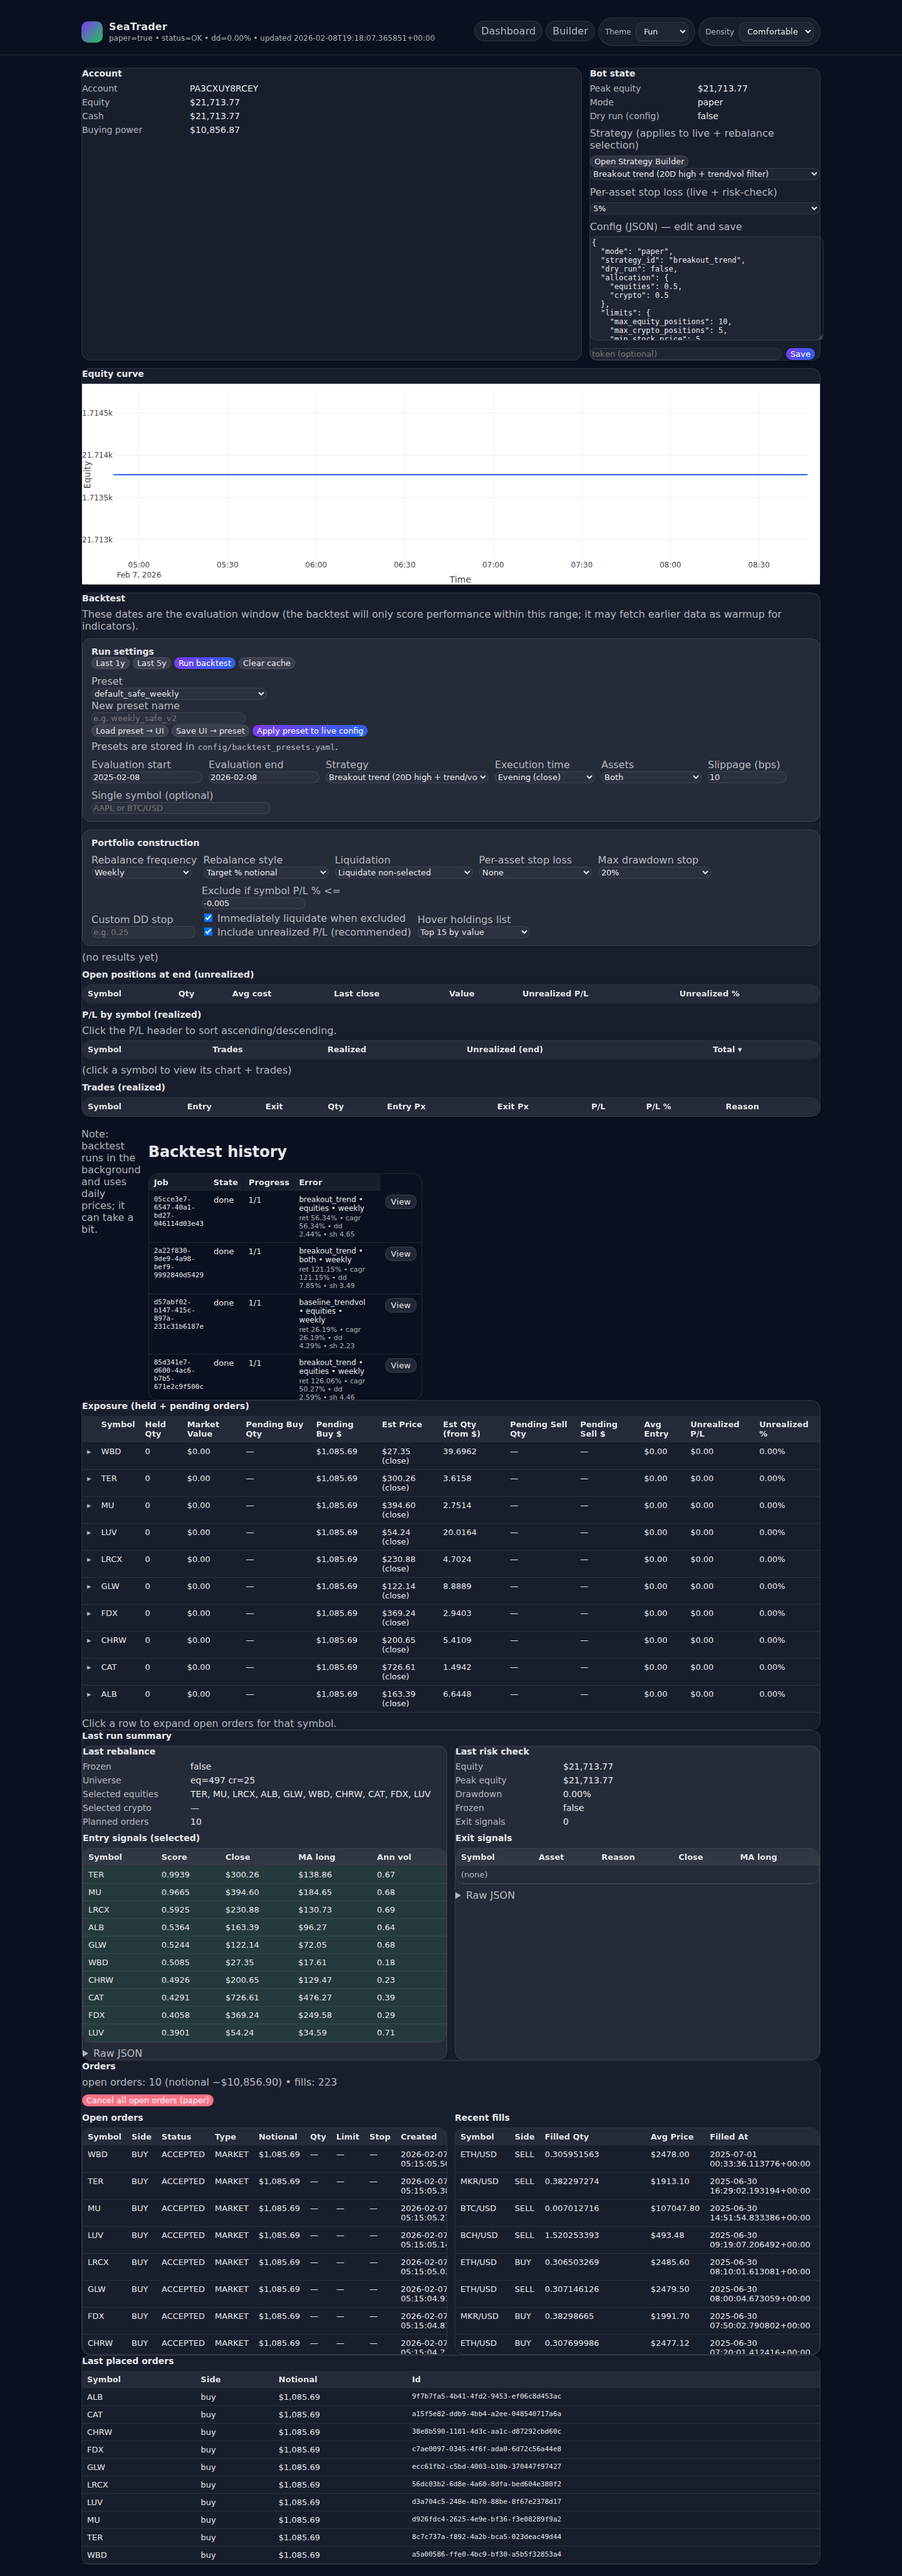
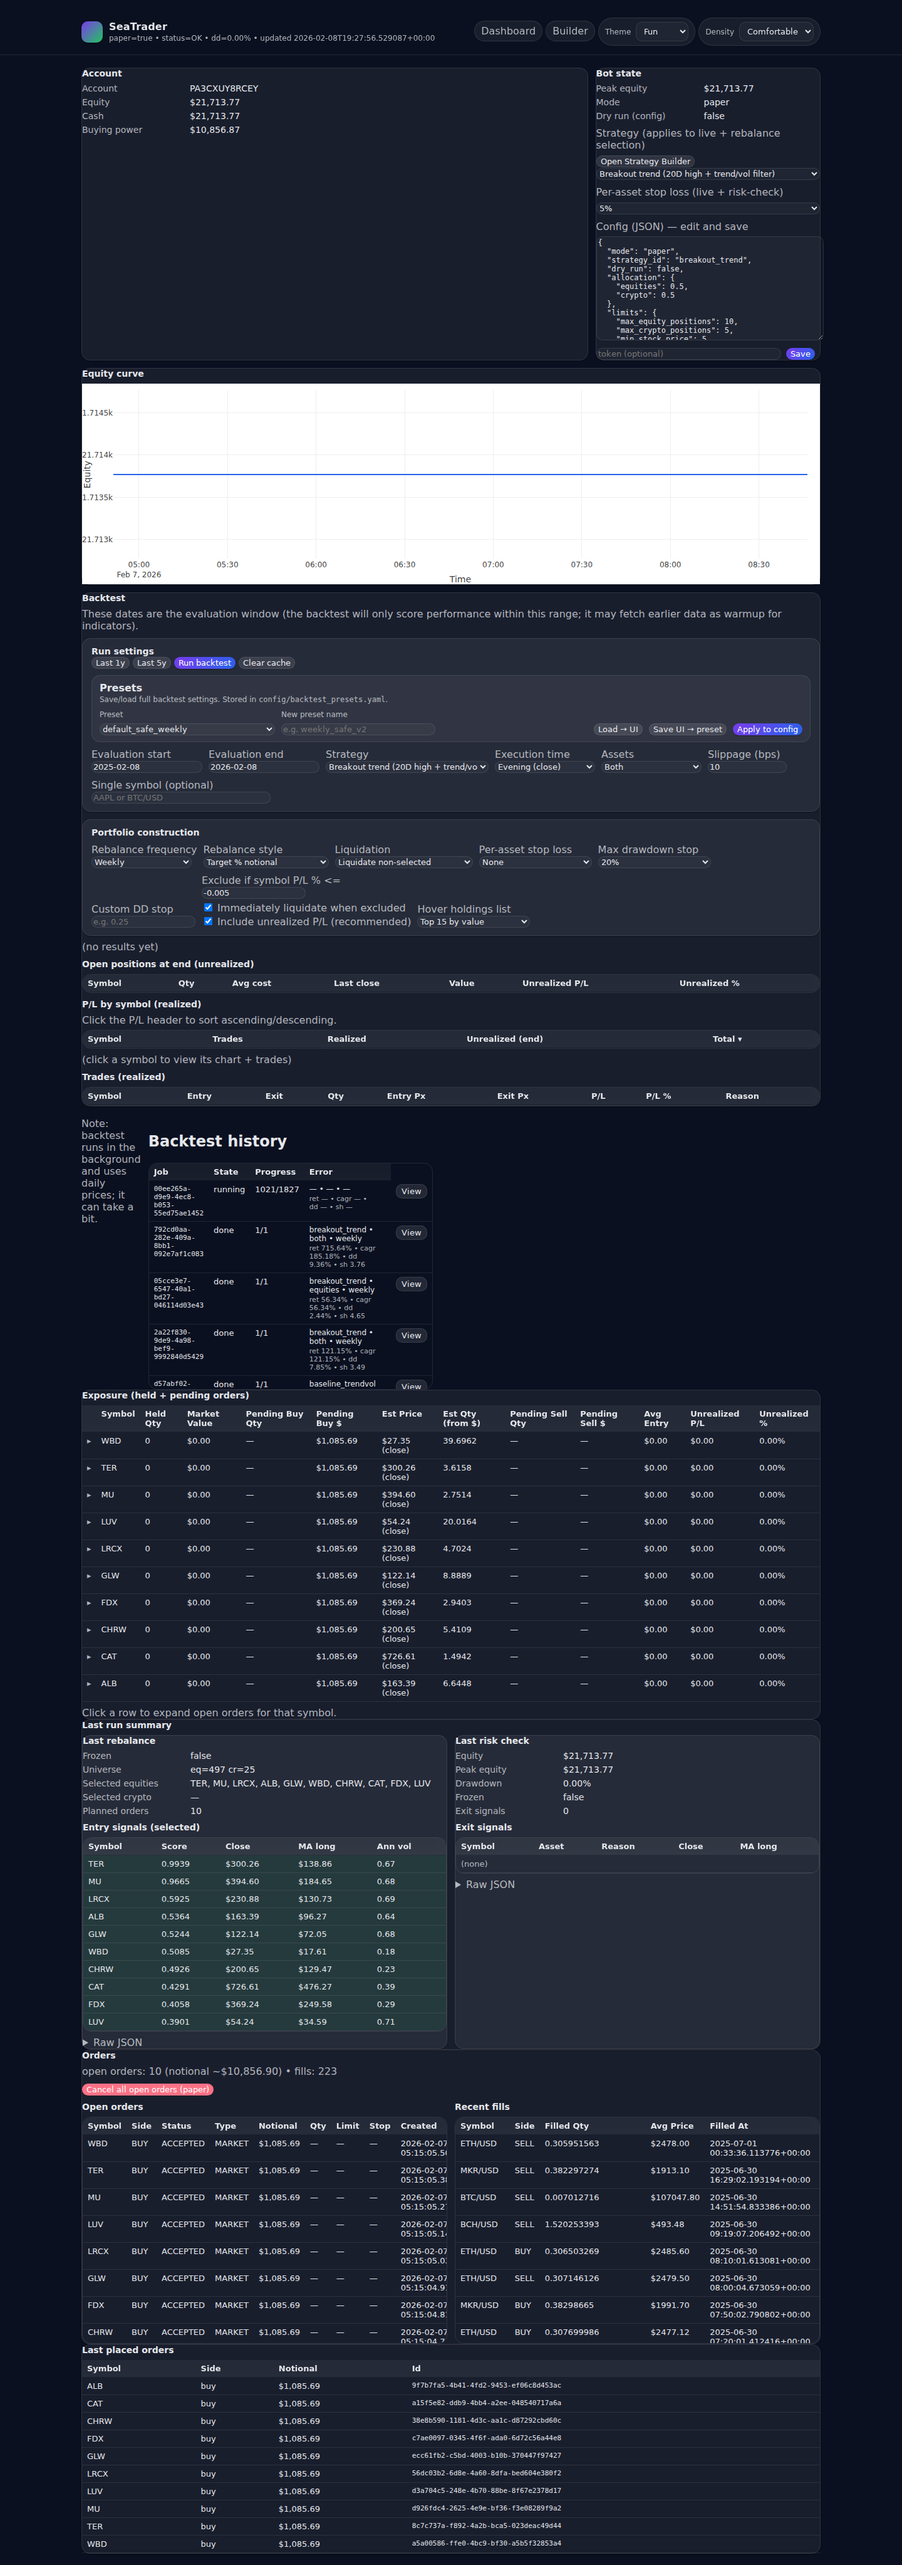
Polish backtest preset UI

diff --git a/src/tradebot/dashboard/index.html b/src/tradebot/dashboard/index.html
@@ -132,25 +132,30 @@
             </div>
           </div>
 
-          <div class="row" style="margin-top:10px; align-items:flex-end; justify-content:space-between;">
-            <div class="row" style="align-items:flex-end;">
+          <div class="subcard" style="margin-top:10px;">
+            <div class="sectionHeader">
               <div>
-                <div class="muted">Preset</div>
+                <div style="font-weight:700;">Presets</div>
+                <div class="muted" style="font-size:12px; margin-top:2px;">Save/load full backtest settings. Stored in <code>config/backtest_presets.yaml</code>.</div>
+              </div>
+              <span id="btPresetStatus" class="muted" style="font-size:12px;"></span>
+            </div>
+
+            <div class="formRow" style="margin-top:10px;">
+              <div>
+                <div class="label">Preset</div>
                 <select id="btPreset" style="width:280px;"></select>
               </div>
               <div>
-                <div class="muted">New preset name</div>
+                <div class="label">New preset name</div>
                 <input id="btPresetName" placeholder="e.g. weekly_safe_v2" style="min-width:240px;" />
               </div>
-            </div>
-            <div class="row" style="align-items:flex-end; gap:8px;">
-              <button id="btPresetLoad" class="secondary">Load preset → UI</button>
+              <div style="flex:1;"></div>
+              <button id="btPresetLoad" class="secondary">Load → UI</button>
               <button id="btPresetSave" class="secondary">Save UI → preset</button>
-              <button id="btPresetApply" class="primary">Apply preset to live config</button>
-              <span id="btPresetStatus" class="muted"></span>
+              <button id="btPresetApply" class="primary">Apply to config</button>
             </div>
           </div>
-          <div class="muted" style="margin-top:6px;">Presets are stored in <code>config/backtest_presets.yaml</code>.</div>
 
           <div style="display:flex; gap:10px; align-items:flex-end; flex-wrap: wrap; margin-top:10px;">
             <div>

diff --git a/src/tradebot/dashboard/static/themes.css b/src/tradebot/dashboard/static/themes.css
@@ -233,6 +233,29 @@ button.danger {
   background: var(--panel);
 }
 
+.sectionHeader {
+  display:flex;
+  justify-content: space-between;
+  align-items: center;
+  gap: 12px;
+}
+
+.subcard {
+  background: color-mix(in srgb, var(--panel) 85%, transparent);
+  border: 1px solid color-mix(in srgb, var(--border) 85%, transparent);
+  border-radius: var(--radius-md);
+  padding: 10px 12px;
+}
+
+.formRow {
+  display:flex;
+  gap: 10px;
+  align-items: flex-end;
+  flex-wrap: wrap;
+}
+
+.label { font-size: 12px; color: var(--muted); margin-bottom: 6px; }
+
 /* Tables */
 
 table {
